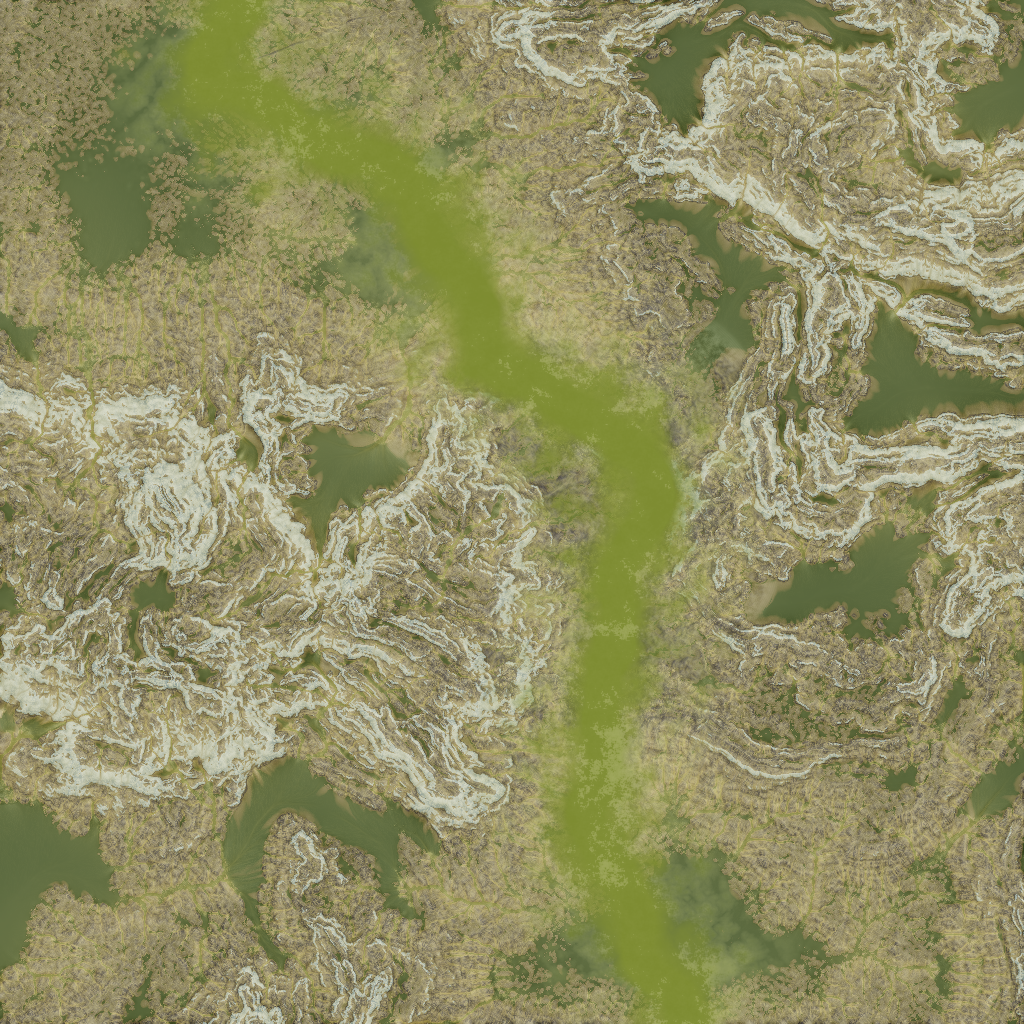
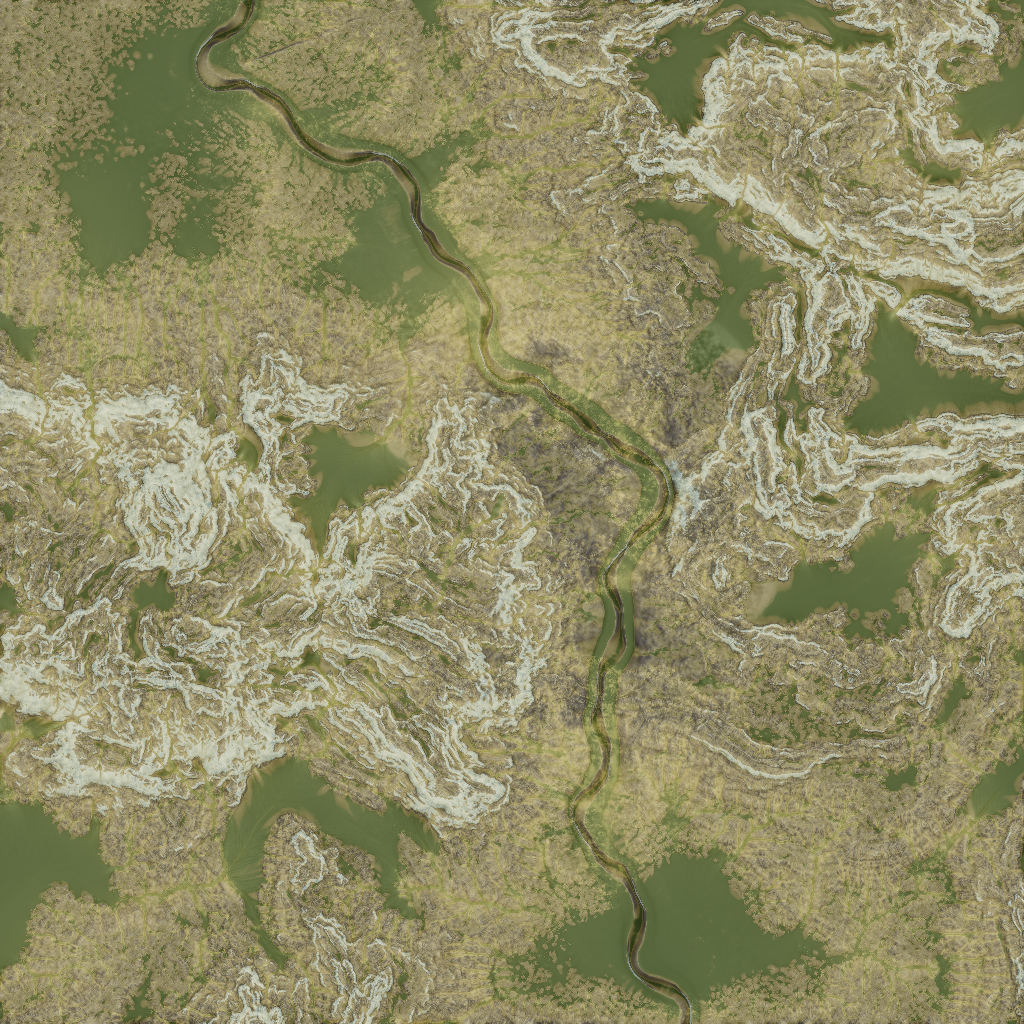
Fix detail settings normalization review items

Changed region(s): [[0.125, 0.0, 0.75, 1.0]]

diff --git a/tests/settingsRegistry.test.js b/tests/settingsRegistry.test.js
@@ -145,6 +145,54 @@ test("detail settings contract routes and returns enabled defaults", () => {
   assert.deepEqual(normalized.transition.priorities, [-0.5, 0.1, 0.5, 0.03]);
 });
 
+test("detail settings preserve explicit smooth and none transition values with fallback fields", () => {
+  const fallback = normalizeDetailSettings({
+    transition: {
+      blendMode: "priorityDither",
+      debugChannel: "alpha",
+      quantizationSteps: 9,
+      ditherScale: 0.5,
+      ditherStrength: 0.42,
+      minWeight: 0.2,
+      priorities: [0.1, 0.2, -0.1, -0.2],
+    },
+    materials: [
+      {
+        micro: {
+          colorStrength: 0.6,
+          scaleMeters: 4,
+        },
+      },
+    ],
+  });
+  const normalized = normalizeDetailSettings({
+    transition: {
+      blendMode: "smooth",
+      debugChannel: "none",
+    },
+    materials: [
+      {
+        micro: {
+          colorStrength: 0.8,
+          scaleMeters: 16,
+        },
+      },
+    ],
+  }, fallback);
+
+  assert.equal(normalized.transition.blendMode, "smooth");
+  assert.equal(normalized.transition.debugChannel, "none");
+  assert.equal(normalized.transition.quantizationSteps, 9);
+  assert.equal(normalized.transition.ditherScale, 0.5);
+  assert.equal(normalized.transition.ditherStrength, 0.42);
+  assert.equal(normalized.transition.minWeight, 0.2);
+  assert.deepEqual(normalized.transition.priorities, [0.1, 0.2, -0.1, -0.2]);
+  assert.equal(normalized.materials[0].micro.colorStrength, 0.8);
+  assert.equal(normalized.materials[0].micro.scaleMeters, 16);
+  assert.equal(normalized.materials[1].micro.colorStrength, 1);
+  assert.equal(normalized.materials[1].micro.scaleMeters, 2);
+});
+
 test("camera settings contract routes and returns deep zoom defaults", () => {
   const calls = [];
   const registry = createRegistryWithMainDeps(calls);

diff --git a/src/gameplay/detailDataSerializer.js b/src/gameplay/detailDataSerializer.js
@@ -60,14 +60,14 @@ function normalizeSlot(value, fallback) {
 }
 
 function normalizeBlendMode(value, fallback) {
-  if (value === "dithered" || value === "priorityDither") return value;
-  if (fallback === "dithered" || fallback === "priorityDither") return fallback;
+  if (value === "smooth" || value === "dithered" || value === "priorityDither") return value;
+  if (fallback === "smooth" || fallback === "dithered" || fallback === "priorityDither") return fallback;
   return "smooth";
 }
 
 function normalizeDebugChannel(value, fallback) {
-  if (value === "rgba" || value === "red" || value === "green" || value === "blue" || value === "alpha") return value;
-  if (fallback === "rgba" || fallback === "red" || fallback === "green" || fallback === "blue" || fallback === "alpha") return fallback;
+  if (value === "none" || value === "rgba" || value === "red" || value === "green" || value === "blue" || value === "alpha") return value;
+  if (fallback === "none" || fallback === "rgba" || fallback === "red" || fallback === "green" || fallback === "blue" || fallback === "alpha") return fallback;
   return "none";
 }
 

diff --git a/docs/Ideas.md b/docs/Ideas.md
@@ -4,11 +4,11 @@
 ### 1. Etymology and Roots
 
 - **The Roots:** It is derived from Old English (or Germanic/Saxon origins).
-    - **"Scaedu"** (related to _Schatten_ in German) means **shadow, shade, or spirit.**
-    - **"Mar"** can represent several things in Old Germanic/Saxon languages:
-        - _Mære / Mara:_ A spirit, phantom, or nightmare (the root of the word "nightmare").
-        - _Mere:_ A lake or pool of water.
-        - _Mearc / Mark:_ A borderland or boundary.
+  - **"Scaedu"** (related to _Schatten_ in German) means **shadow, shade, or spirit.**
+  - **"Mar"** can represent several things in Old Germanic/Saxon languages:
+    - _Mære / Mara:_ A spirit, phantom, or nightmare (the root of the word "nightmare").
+    - _Mere:_ A lake or pool of water.
+    - _Mearc / Mark:_ A borderland or boundary.
 - **The Feeling:** When you speak it, it sounds **ancient and eerie.** It sounds like "Shadow-Spirit" or "Shadow-Boundary."
 ### 2. The Roots (The "Old Tongue" Logic)
 
@@ -116,12 +116,12 @@ Specifically, if you were to translate the _feeling_ of those three syllables 
   - Second pass: variant sprites and transition edges.
   - Third pass: optional deeper lighting interaction for sprite layer.
 
-#### **Animated sprites** : 
+#### **Animated sprites**
 here i draw huge inspiration from "Songs of Syx" -
   check out the animations there, also the particle effects etc.
 
 
-#### **details with sprites** 
+#### **details with sprites**
 (1 pixel equals 1 sprite i.e. 16x16 or 32x32)
   When we zoom close enough, each "material" like water, rock etc. (needs to be
   identified and mapped still) gets an assigned sprite (or group of sprites for
@@ -130,25 +130,24 @@ here i draw huge inspiration from "Songs of Syx" -
   zoom in close enough. Therefore we do not need to build a huge texture. Only
   like 100x100 sprites or so (depending on when we start to blend this in)
 
-### **Map Overlays** :
+### **Map Overlays**
 various info maps (height, slope, water, etc.) as overlays
   with adjustable ranges, so we can specify ranges that get shown and colored
   (for example only slopes above 51% in red)
 
-### **Sun / Lighting / Atmosphere** : 
+### **Sun / Lighting / Atmosphere**
 right now there is a hardcoded LUT for the
   sun settings (altitude, color), i would like a UI where i can put points on a
   linear axis and define what the settings are at those points - then they get
   interpolated / smoothed between them (linear, easing etc.; this could be tried
   as a smoothing parameter).
 
-### **flickering lights** 
+### **flickering lights**
 for some settings its ok, but the "chaos" effect is stupid, needs work
 
-### **gory killings** 
-
+### **gory killings**
 if a hawk kills a bird for example, there should be a blood-splatter on the ground
-  - these splatters are like decals, they work as sprites and live in the sprite plane so to say (not yet implemented, see detailed map sprite stuff ). they would be timed (could be even with decay or something... see Stoneshard as inspiration)
+- these splatters are like decals, they work as sprites and live in the sprite plane so to say (not yet implemented, see detailed map sprite stuff ). they would be timed (could be even with decay or something... see Stoneshard as inspiration)
 
 ## Gameplay
 
@@ -214,52 +213,50 @@ if a hawk kills a bird for example, there should be a blood-splatter on the grou
     - seasonal/weather shifts affect reproduction/migration
   - Keep ecology readability: map-driven baseline remains primary.
 
-#### **use animals to scout** 
+#### **use animals to scout**
 like with a shaman or drugs or similar, you connect your mind with an animal and view the world through them --> particle system follow hawk, follow birds etc...
   this should be coupled with a sort of "fog of war". Can be saved in a texture. One channel is whether we see the terrain or not, other channel is for whether we get updated info from systems (like predator prey, vegetation etc)
   When we use animals, we have a far greater range.
-  
+
   This can be extended. At the start we can only "possess" like a bird (slow) near us (this range can be extended through progression). First only for a couple seconds.
-  Later we might be able to use a hawk endlessly or even control it...  
-  
+  Later we might be able to use a hawk endlessly or even control it...
+
   We can utilize lots of similar predator/prey swarm systems: birds+hawks, rabbits+foxes, deer+wolves
   The idea of those systems would be to add some kind of unique behaviour to each type of creature. So that possessing them feels different.
   Gameplay wise there should be a progression (with occasional hints further down the road):
-  - rabbits (slow, low range)
-  - deer (bit faster, slightly wider range)
-  - foxes (faster, slightly wider range)
-  - birds (faster+, range+)
-  - wolves(faster+, range++)
-  - hawks(faster+++, range+++)
-  
+- rabbits (slow, low range)
+- deer (bit faster, slightly wider range)
+- foxes (faster, slightly wider range)
+- birds (faster+, range+)
+- wolves(faster+, range++)
+- hawks(faster+++, range+++)
+
   Like, the first encounter with the system could be with birds (which give the wow effect), but then you have to work your way up.
-  
+
   Also important: which agent do we actually possess:
--  based on range (here we can increase range through progression)
+- based on range (here we can increase range through progression)
 - spawn own agent (like a pet)
-	- this could act like a normal pet of this type
-	- it could go pre-defined routes (splines)
-	- it could be fully steer-able (you can control / drive it)
+  - this could act like a normal pet of this type
+  - it could go pre-defined routes (splines)
+  - it could be fully steer-able (you can control / drive it)
 
 Another thought on this: when possessing an animal, use shader/render effects or different color-mapping or similar things - like a hawk would maybe see the world more greyscale but nesting grounds/birds/little animals would be like strong red colored
 Or a bird would highlight certain plants (also visually) etc.
 Could add both an interesting effect but also philosophical depth - each animal IS conscious but experiences the world drastically different.
 
-#### **resources change and make scouting a constant action** 
-
+#### **resources change and make scouting a constant action**
 to tie the animal possessing thing even more in, beyond just a visual gimmick - resources on a whole scale will vary (wildlife, plants etc.). The variation comes through the player, natural fluctuation etc.
-  The trick is: the longer it is away that we visited or watched a place, the more inaccurate this information gets. 
+  The trick is: the longer it is away that we visited or watched a place, the more inaccurate this information gets.
   Time is stored basically in the fog-of-war map, in a channel. freshly discovered is 255 and then it decreases (or the other way around). once a day this gets recalculated (everything goes down).
   When we now check on a resource (out of memory so to say) that is not nearby - we get not the true value, but a distorted one - depending on how long away it is (this needs to be finetuned of course)
   Resources might also pop up (large concentrations).
-  
+
   >[!important]+
   >Overall the goal is that you have to plan where to go, as movement is time and resource intensive. So you want to be sure that you get good resources - this helps to tie the animal possessing/scouting mechanic in more.
 
 --> when we gather resources, this map should be updated (set to empty at this area, so we enforce change)
 
-#### **Resource Gathering** 
-
+#### **Resource Gathering**
 Instead of individual items like in other survival
   sims, we just activate an "Activity" - we control the range and then its
   "auto-playing" basically. The character makes a brownian motion in that
@@ -345,7 +342,7 @@ Tracking should be a full-map simulation and a core exploration driver.
   - renderer: frame-rate rendering/interpolation and time-driven visual-only
     effects where useful.
 
-#### **animated movement**. 
+#### **animated movement**
 Or rather movement tied to time-progress. Each step  takes 0.01 hours (minimal timestep) * move-cost of the tile. (the one from
   dijkstra). This means that easy terrain is traveled fast, while challenging
   terrain takes a while. Once we clicked from the pathfinding - we do not
@@ -507,14 +504,14 @@ Or rather movement tied to time-progress. Each step  takes 0.01 hours (minimal t
   - Prevent rapid ping-pong transitions via cooldown/hold-time style scheduler
     memory.
 
-### **player gets light attached**, 
+### **player gets light attached**
 so once he is moving, the light moves with
   him.
 
-### **info box** 
+### **info box**
 - on the side, should show height, slope etc.
 
-### **water based travel** 
+### **water based travel**
 (boat on water, is restricted to movement on water),  we need to be close to it to enter, once entered we still technically control
   our char - but now its on water and movement is restricted to water (or board  on a land tile)
 
@@ -526,7 +523,7 @@ so once he is moving, the light moves with
   The interesting part is of course not the save-spacing. Its more the "synthetic sound".
   This could be coupled with a built-in synth. And some sound systems that drive ambient music. fully synthesized.
 
-https://www.youtube.com/watch?v=WeJ3wz1S01Q has a lot of interesting terms to look up for synthesizing 
+https://www.youtube.com/watch?v=WeJ3wz1S01Q has a lot of interesting terms to look up for synthesizing
 
 ## Interesting Links
 

diff --git a/AI_CONTEXT.md b/AI_CONTEXT.md
@@ -370,7 +370,7 @@ No game engine is used.
   - zoom fade is computed once per frame and uploaded as `uDetailBlend`; the fragment shader returns before water/material/detail texture sampling when detail is inactive at the current zoom
   - detail is color-only for performance; it does not modify normals or cast shadows
   - detail is not suppressed by authored water masks; zoom-detail materials are applied before water material rendering, so visible water overlays detailed terrain instead of disabling the detail pass
-  - dev map mode exposes a `D` topic panel for live tuning four material slots, zoom fade, and water suppression
+  - dev map mode exposes a `D` topic panel for live tuning four material slots and zoom fade
 - Camera settings:
   - settings contract key is `camera`, persisted as optional `camera.json`
   - `zoomMin` / `zoomMax` control runtime camera clamp; default `zoomMax` is `128` for close inspection of zoom-detail materials